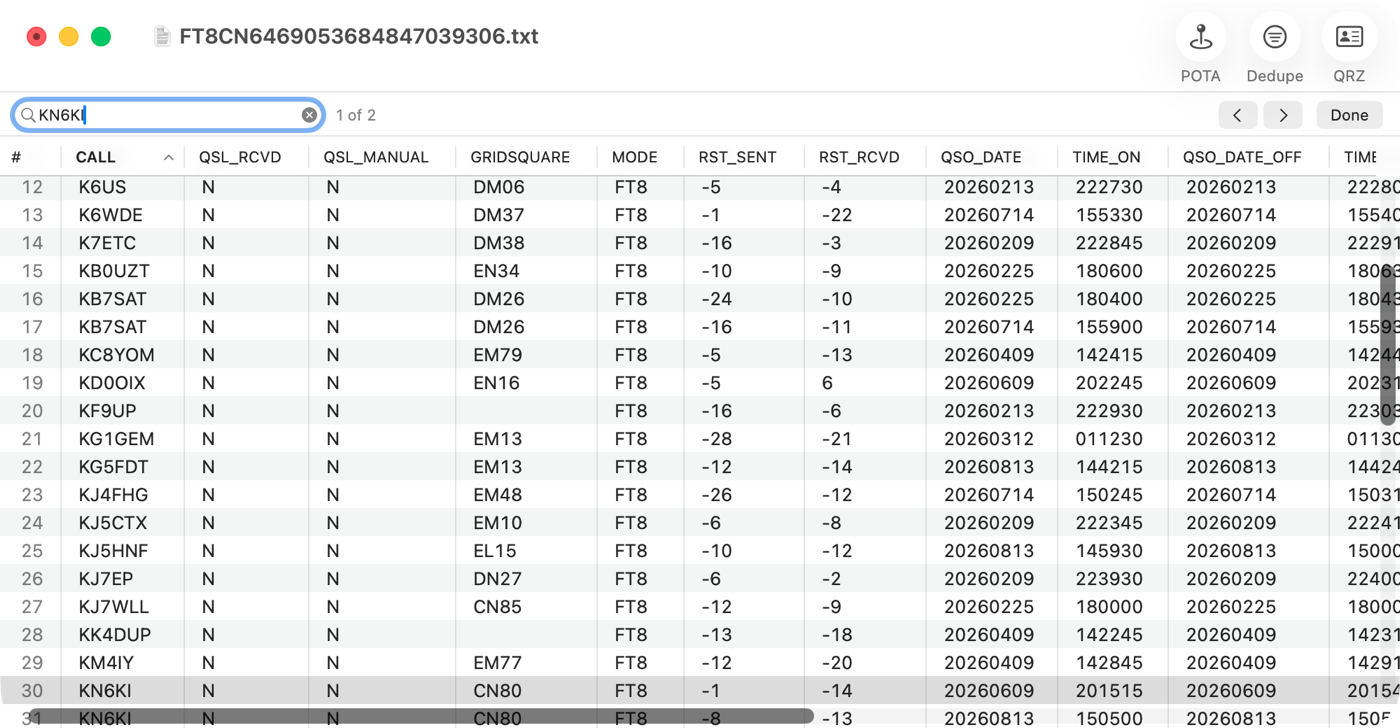
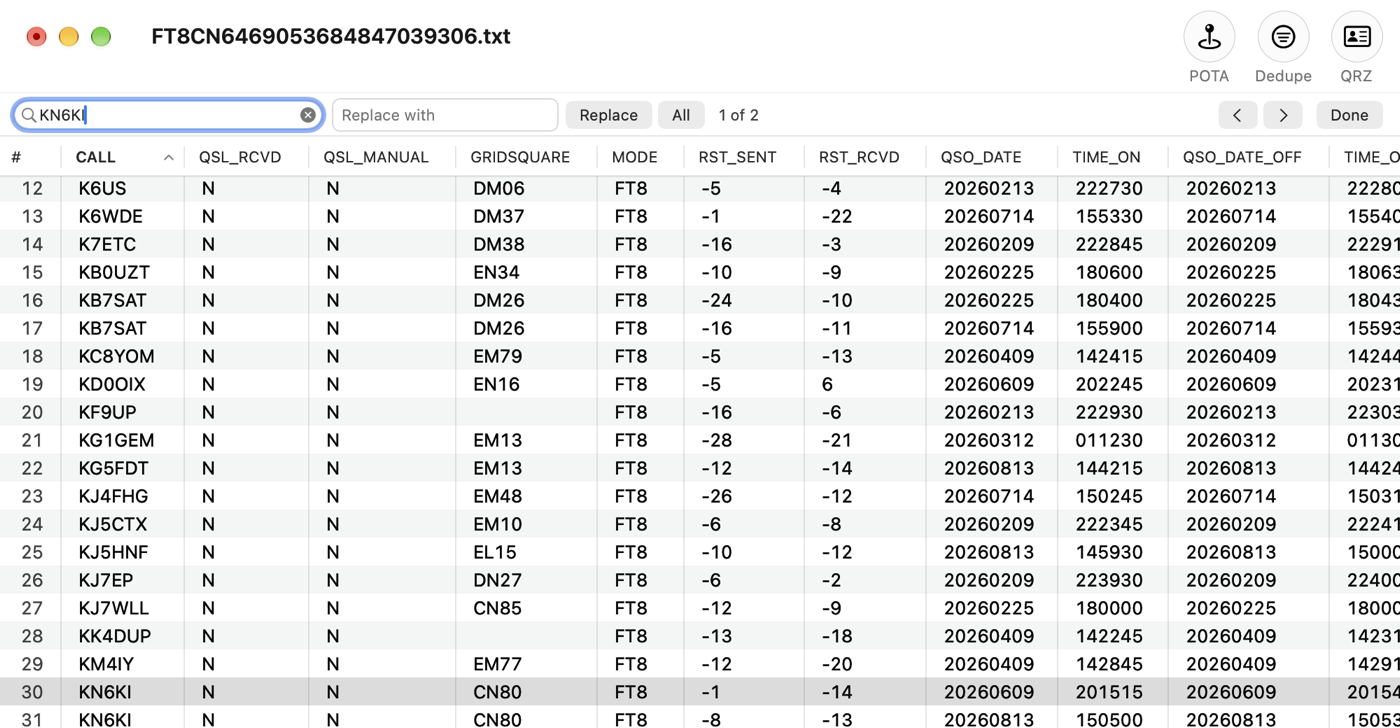
Retake the find-bar figure with the replace field
Figure 4 predated issue #41's replace field and buttons. Neither
Accessibility nor Screen Recording permission was available to drive
or capture the app, so this figure is rendered rather than captured:
the app's own LogDocument and LogWindowController put on screen by a
harness program, state set in code (sorted on CALL, KN6KI in the find
field, 1 of 2), and AppKit drawing the window frame into a bitmap.

The translucent column header shows the rows beneath it in a bitmap
render, which has no blur, so the render backs it with an opaque view.
The visible differences from a capture are no document icon beside the
title and no scroll bar. SHOTS.md records the method and says to prefer
a real capture once the permissions are back.

diff --git a/docs/manual/SHOTS.md b/docs/manual/SHOTS.md
@@ -57,7 +57,7 @@ files.
 | `02-banner.png` | `recovered.adi` | Just open it — the banner appears by itself. |
 | `03-editing.png` | FT8CN | Click the `GRIDSQUARE` cell on row 3 twice to open it for editing, capture the window, then crop to the detail (1200×400 px around the cell, including the column headers). Full width is far too small to see an open cell. |
 | `04-sorted.png` | FT8CN | Click the `CALL` header to sort, then select rows 5–12. |
-| `05-find.png` | FT8CN | ⌥⌘F, type `KN6KI` in the find field — two matches, so the bar reads "1 of 2" — and leave the replace field empty so its placeholder shows. **Stale since 2026-11-27:** the shot in the repo predates the replace field and button pair added for issue #41, and needs retaking with this recipe. |
+| `05-find.png` | FT8CN | Sort on `CALL`, ⌘F, type `KN6KI` — two matches, so the bar reads "1 of 2" — and leave the replace field empty so its placeholder shows. **Rendered rather than captured** (2026-11-27, for issue #41's replace field); see "When neither permission is available" below. |
 | `06-dedupe-fields.png` | `session-with-repeats.adi` | Edit ▸ Find Duplicates… |
 | `07-dedupe-review.png` | `session-with-repeats.adi` | …then **Find Duplicates**. Two repeats, which is what the manual quotes. |
 | `08-pota-parks.png` | FT8CN | POTA ▸ Stamp Park Reference…, type `US-1234`. |
@@ -99,6 +99,37 @@ Two more traps if the run is scripted:
   click-to-edit path depends on mouse-up timing and click count that a synthesized
   accessibility click does not carry. Post real `CGEvent`s instead, or set the selection
   through accessibility (`set selected of row N`, then shift-arrow keys).
+
+## When neither permission is available
+
+On 2026-11-27 this machine had neither Accessibility nor Screen Recording permission
+for the terminal (`osascript is not allowed assistive access`; ScreenCaptureKit failed
+with `-3801`, "declined TCCs"), so the app could be neither driven nor captured.
+`05-find.png` was made another way, and it is the one figure here that is not a capture
+of the running app:
+
+- A `swiftc` program compiled across every app source but `main.swift`, linked against
+  `-emit-library` builds of the three kits — the same harness the app layer's fixes are
+  proved with. It opens the log with `LogDocument(contentsOf:ofType:)`, calls
+  `makeWindowControllers()` and `showWindow`, sets the frame to 1000×520 at (200, 200),
+  sets `NSApp.appearance` to aqua, and activates so the window is key. The window,
+  toolbar and find bar are the shipping code, on screen.
+- The state is set in code: `sortRecords(byColumn: "CALL", ascending: true)`,
+  `showFind(nil)`, then `insertText("KN6KI")` into the search field's editor and its
+  action sent.
+- The image is AppKit drawing the window's frame view into a bitmap
+  (`bitmapImageRepForCachingDisplay` / `cacheDisplay` on `contentView.superview`),
+  which needs no permission. At 2× that is 2000×1040; downscale as below.
+- **The column header is translucent**, blurring the rows scrolled beneath it, and a
+  bitmap render has no blur — the rows show through as ghost text. The program puts an
+  opaque `controlBackgroundColor` view behind the header for the render, which is how the
+  blur over white rows reads on screen anyway.
+- Two visible differences from a capture: no document icon beside the title, and no
+  scroll bar (overlay scrollers are hidden at rest). Neither is something the manual
+  points at.
+
+Prefer a real capture whenever the permissions are back. This is the fallback, not the
+method.
 
 ## Afterwards
 

diff --git a/CLAUDE.md b/CLAUDE.md
@@ -279,9 +279,6 @@ The open build choices, roughly in order of how much they are worth:
   expensive each session: decision 18 means DESIGN.md describes a feature that was built
   and rejected, and §12 describes a pipeline whose triggers decision 19 narrowed.
 - **Save selection as a new file** — the last of M2.
-- **Retake the manual's find-bar screenshot** (`docs/manual/images/05-find.png`). It
-  predates the replace field; `docs/manual/SHOTS.md` has the recipe. Needs a person at
-  the keyboard, or Accessibility access for the terminal, which was gone by 2026-11-27.
 - **Bump `actions/checkout` and `actions/upload-artifact` to `@v5`.** Both target Node 20,
   which GitHub has deprecated; runs are being forced onto Node 24 and warn each time.
   Nothing is broken.
